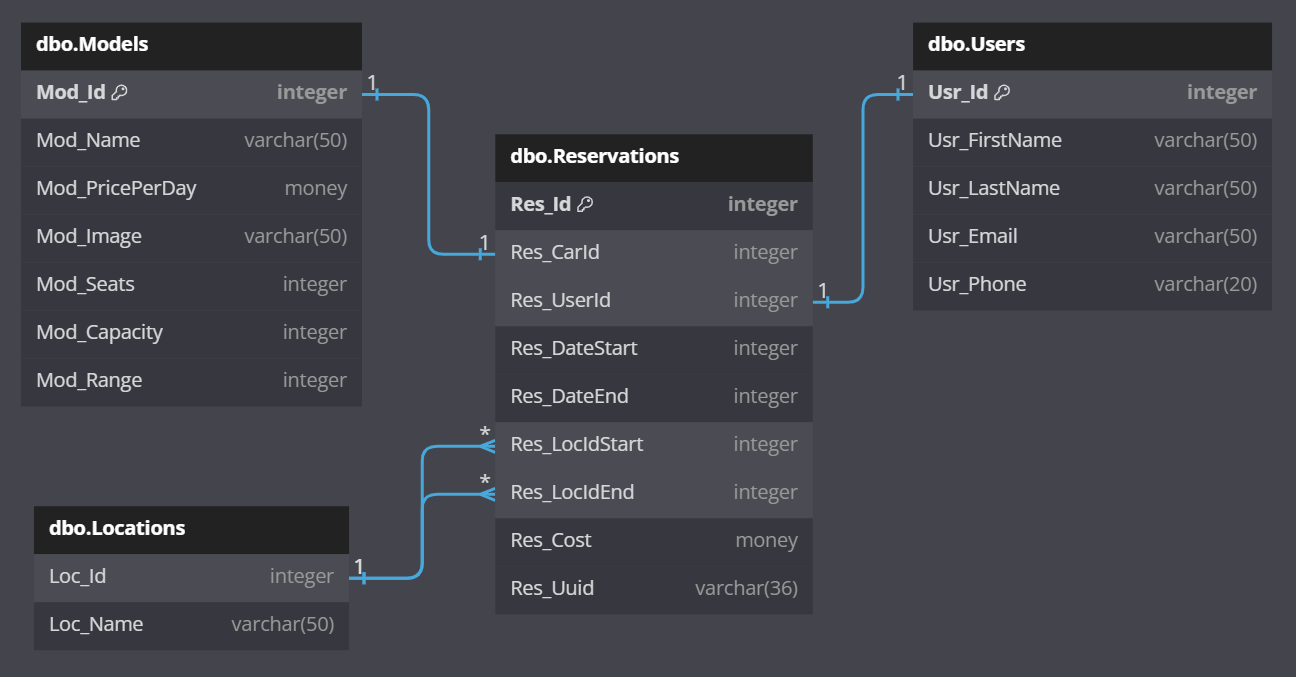
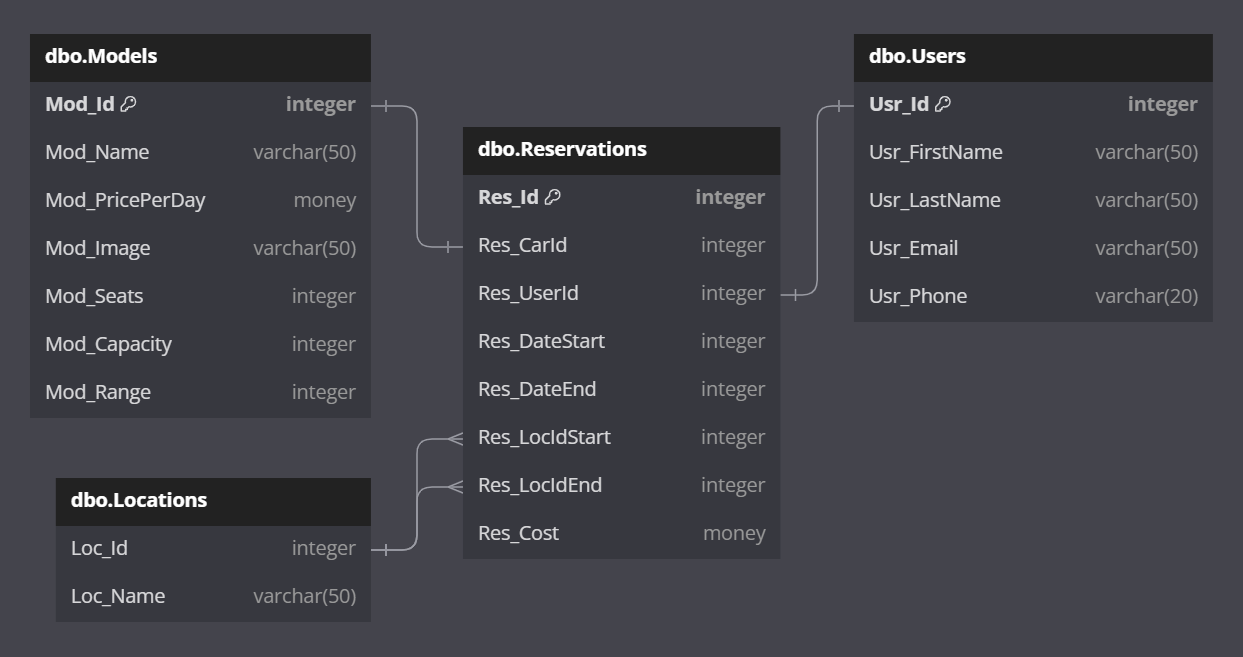
removed uuid from reservation

diff --git a/ClientApp/src/components/Confirmation.js b/ClientApp/src/components/Confirmation.js
@@ -1,50 +1,12 @@
-import React, { useEffect, useState } from "react";
-import { getReservation } from "../fetcher";
-import { useLocation, useNavigate } from "react-router-dom";
+import React from "react";
+import { useNavigate } from "react-router-dom";
 
 const Confirmation = () => {
-  const location = useLocation();
-  const queryParams = new URLSearchParams(location.search);
-  const uuid = queryParams.get("uuid");
-
-  const [reservation, setReservation] = useState({
-    errorMessage: "",
-    data: {
-      id: uuid,
-      carId: "",
-      userId: "",
-      dateStart: "",
-      dateEnd: "",
-      locIdStart: "",
-      locIdEnd: "",
-      cost: "",
-    },
-  });
-
   const navigate = useNavigate();
-
-  useEffect(() => {
-    const fetchReservationData = async () => {
-      const reservationResponseObject = await getReservation(uuid);
-      setReservation(reservationResponseObject);
-    };
-    fetchReservationData();
-  }, [uuid]);
 
   return (
     <div className="reservation-container">
       <h3>Thank you for your reservation!</h3>
-      <div>
-        <p>Your unique identification number:</p>
-        <p>
-          {reservation.errorMessage && (
-            <div className="error-message">
-              Error: {reservation.errorMessage}{" "}
-            </div>
-          )}
-          <strong>{reservation.data.uuid}</strong>
-        </p>
-      </div>
 
       <div className="btn-right">
         <button onClick={() => navigate("/")}>Home</button>

diff --git a/ClientApp/src/components/Summary.js b/ClientApp/src/components/Summary.js
@@ -50,8 +50,7 @@ const Summary = () => {
     dateEnd: returnDate,
     locIdStart: pickUpLocation,
     locIdEnd: returnLocation,
-    cost: parseFloat((daysCount * model.data.pricePerDay).toFixed(2)),
-    uuid: "",
+    cost: parseFloat((daysCount * model.data.pricePerDay).toFixed(2))
   };
 
   const userData = {
@@ -87,24 +86,11 @@ const Summary = () => {
     e.preventDefault();
 
     const userResponseObject = await postUser(userData);
-
     reservationData.userId = userResponseObject.id;
+    // const reservationResponseObject = await postReservation(reservationData);
+    await postReservation(reservationData);
 
-    const uuid = generateUUID();
-    reservationData.uuid = uuid;
-
-    const reservationResponseObject = await postReservation(reservationData);
-
-    navigate(`/reservation?uuid=${reservationResponseObject.data.uuid}`);
-  };
-
-  const generateUUID = () => {
-    return "10000000-1000-4000-8000-100000000000".replace(/[018]/g, (c) =>
-      (
-        c ^
-        (crypto.getRandomValues(new Uint8Array(1))[0] & (15 >> (c / 4)))
-      ).toString(16)
-    );
+    navigate("/reservation");
   };
 
   return (

diff --git a/Controllers/ReservationController.cs b/Controllers/ReservationController.cs
@@ -26,12 +26,12 @@ namespace TeslaRentingApp
             }
         }
 
-        [HttpGet("{uuid}")]
-        public async Task<IActionResult> GetReservationByUuid(string uuid)
+        [HttpGet("{id}")]
+        public async Task<IActionResult> GetReservationByUuid(int id)
         {
             try
             {
-                Reservation? reservation = await _reservationRepository.GetReservation(uuid);
+                Reservation? reservation = await _reservationRepository.GetReservation(id);
 
                 if (reservation != null)
                 {
@@ -61,16 +61,16 @@ namespace TeslaRentingApp
             }
         }
 
-        [HttpDelete("{uuid}")]
-        public async Task<IActionResult> DeleteReservation(string uuid)
+        [HttpDelete("{id}")]
+        public async Task<IActionResult> DeleteReservation(int id)
         {
             try
             {
-                Reservation? reservation = await _reservationRepository.GetReservation(uuid);
+                Reservation? reservation = await _reservationRepository.GetReservation(id);
 
                 if (reservation != null)
                 {
-                    return Ok(await _reservationRepository.DeleteReservation(uuid));
+                    return Ok(await _reservationRepository.DeleteReservation(id));
                 }
                 else
                 {

diff --git a/Repositories/ReservationRepository.cs b/Repositories/ReservationRepository.cs
@@ -19,9 +19,9 @@ namespace TeslaRentingApp
             return await _context.Reservations.FirstOrDefaultAsync(r => r.Id == reservation.Id);
         }
 
-        public async Task<List<Reservation>> DeleteReservation(string uuid)
+        public async Task<List<Reservation>> DeleteReservation(int id)
         {
-            Reservation? reservation = await _context.Reservations.FirstOrDefaultAsync(r => r.Uuid == uuid);
+            Reservation? reservation = await _context.Reservations.FirstOrDefaultAsync(r => r.Id == id);
             
             if (reservation != null)
             {
@@ -32,9 +32,9 @@ namespace TeslaRentingApp
             return await _context.Reservations.ToListAsync();
         }
 
-        public async Task<Reservation?> GetReservation(string uuid)
+        public async Task<Reservation?> GetReservation(int id)
         {
-            return await _context.Reservations.FirstOrDefaultAsync(r => r.Uuid == uuid);
+            return await _context.Reservations.FirstOrDefaultAsync(r => r.Id == id);
         }
 
         public async Task<List<Reservation>> GetReservations()

diff --git a/Interfaces/IReservationRepository.cs b/Interfaces/IReservationRepository.cs
@@ -3,8 +3,8 @@
     public interface IReservationRepository
     {
         Task<List<Reservation>> GetReservations();
-        Task<Reservation?> GetReservation(string uuid);
+        Task<Reservation?> GetReservation(int id);
         Task<Reservation?> CreateReservation(Reservation reservation);
-        Task<List<Reservation>> DeleteReservation(string uuid);
+        Task<List<Reservation>> DeleteReservation(int id);
     }
 }

diff --git a/Models/Reservation.cs b/Models/Reservation.cs
@@ -20,8 +20,5 @@ namespace TeslaRentingApp
         public int LocIdEnd { get; set; }
         [Column("Res_Cost", TypeName = "money")]
         public decimal Cost { get; set; }
-        [Column("Res_Uuid")]
-        public string? Uuid { get; set; }
-
     }
 }
